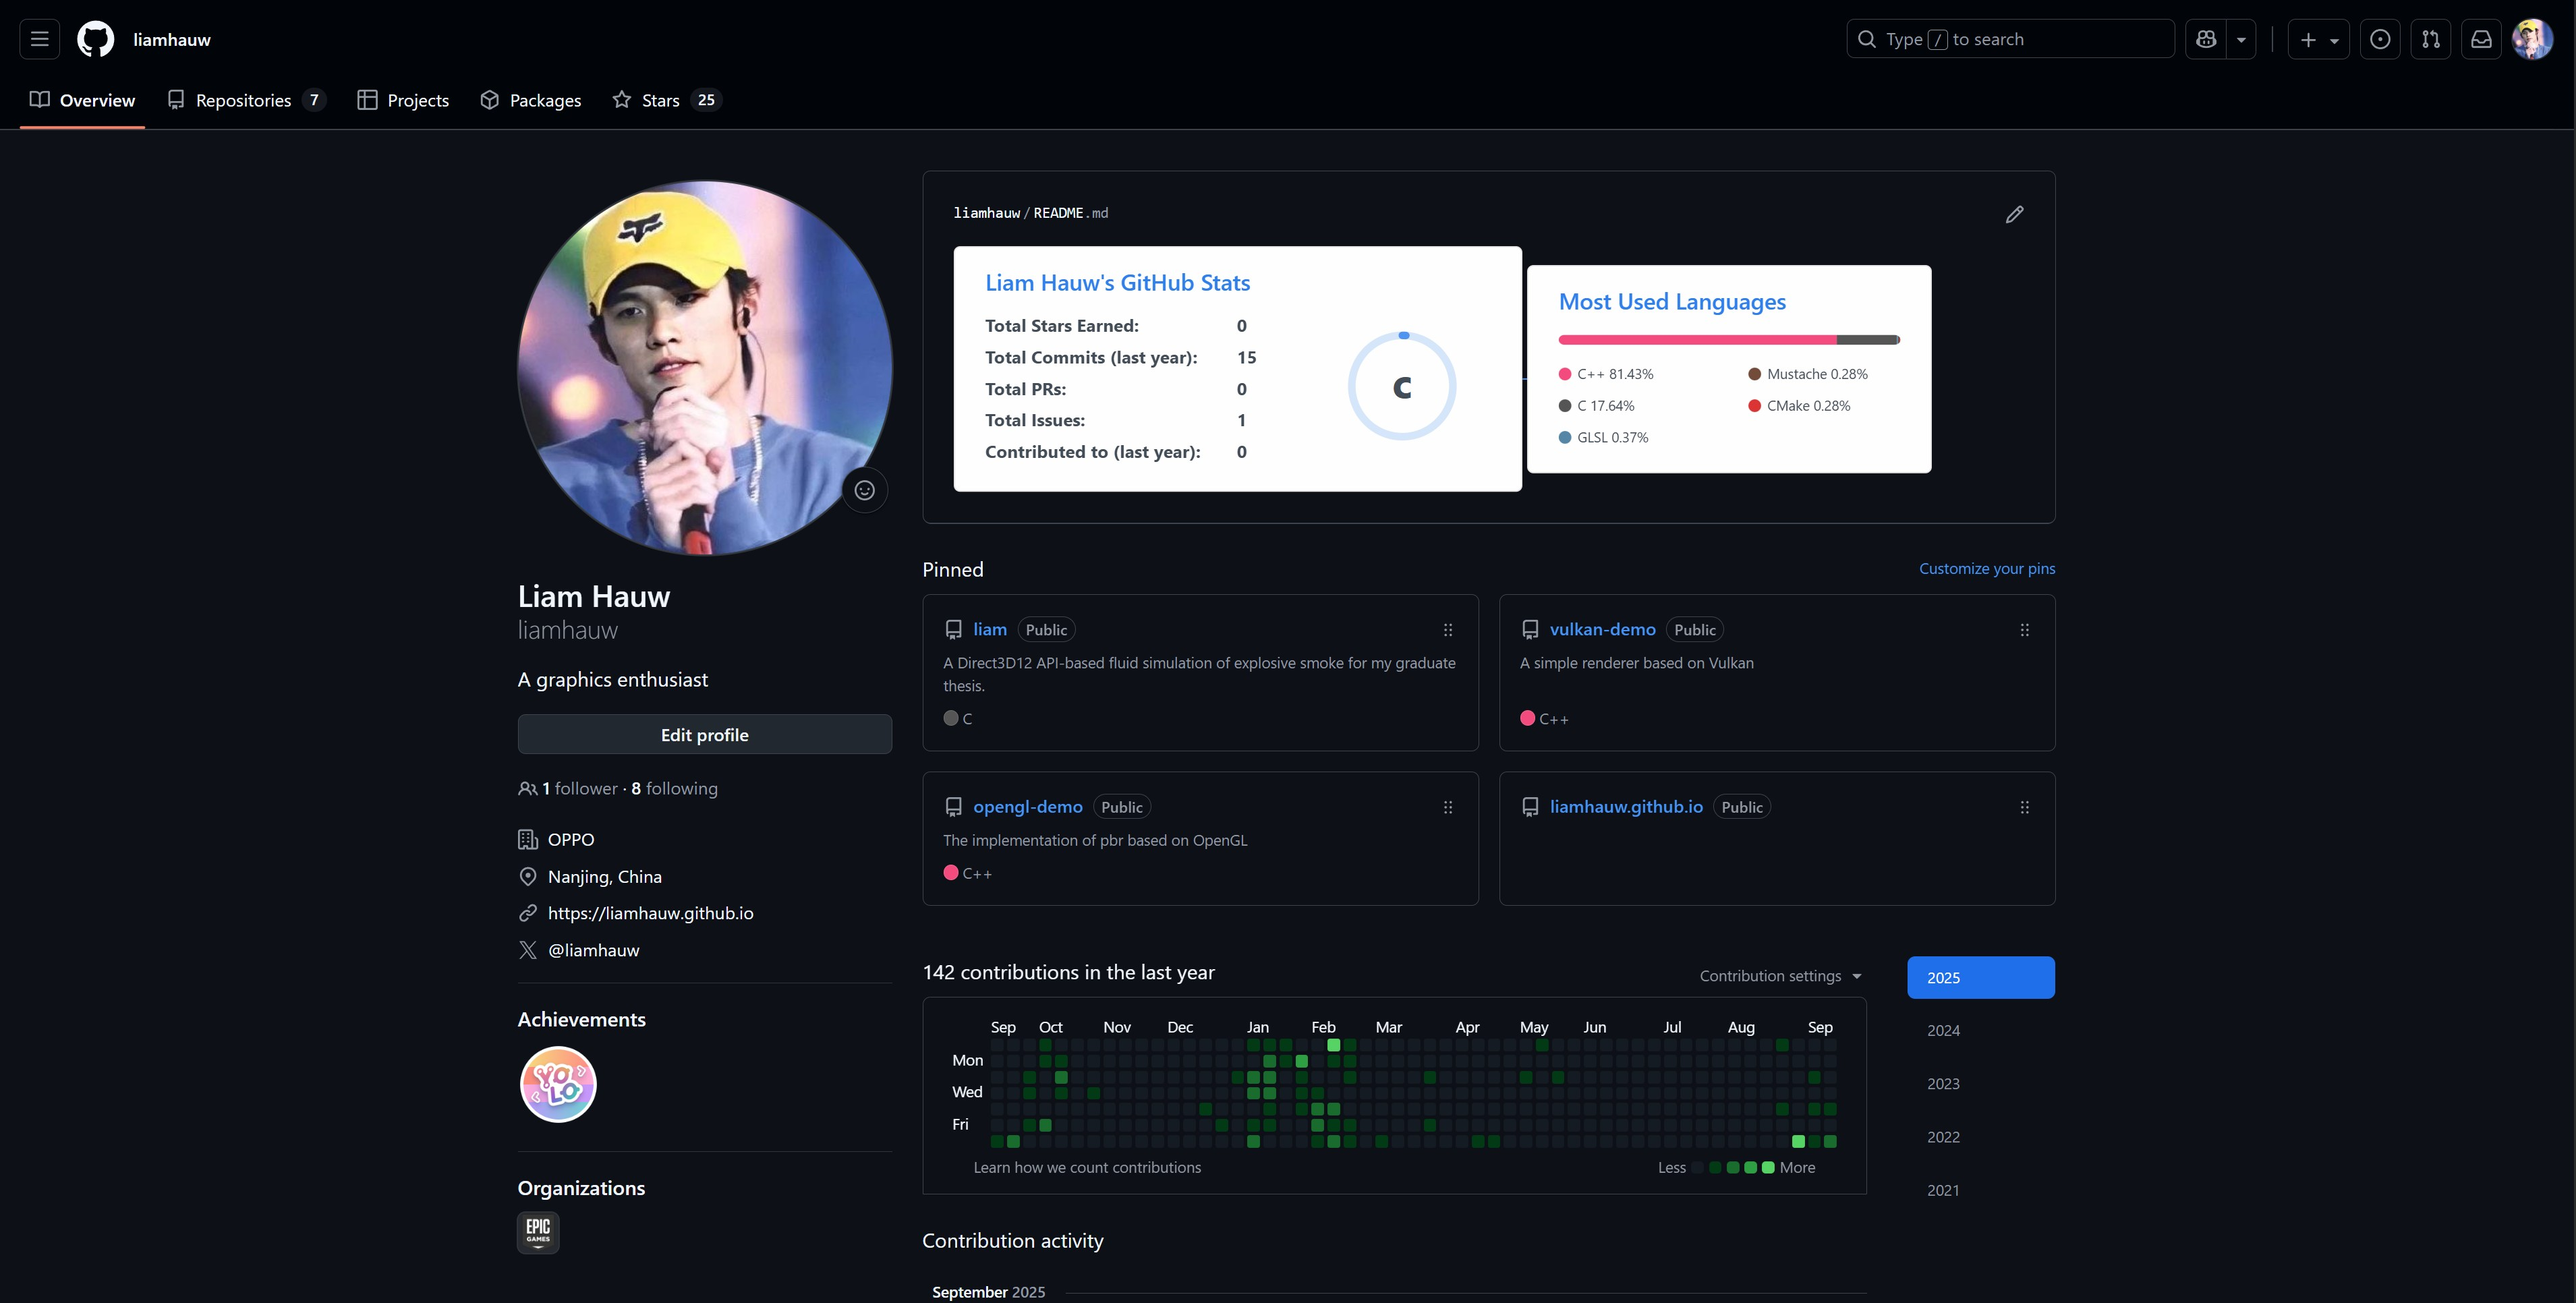
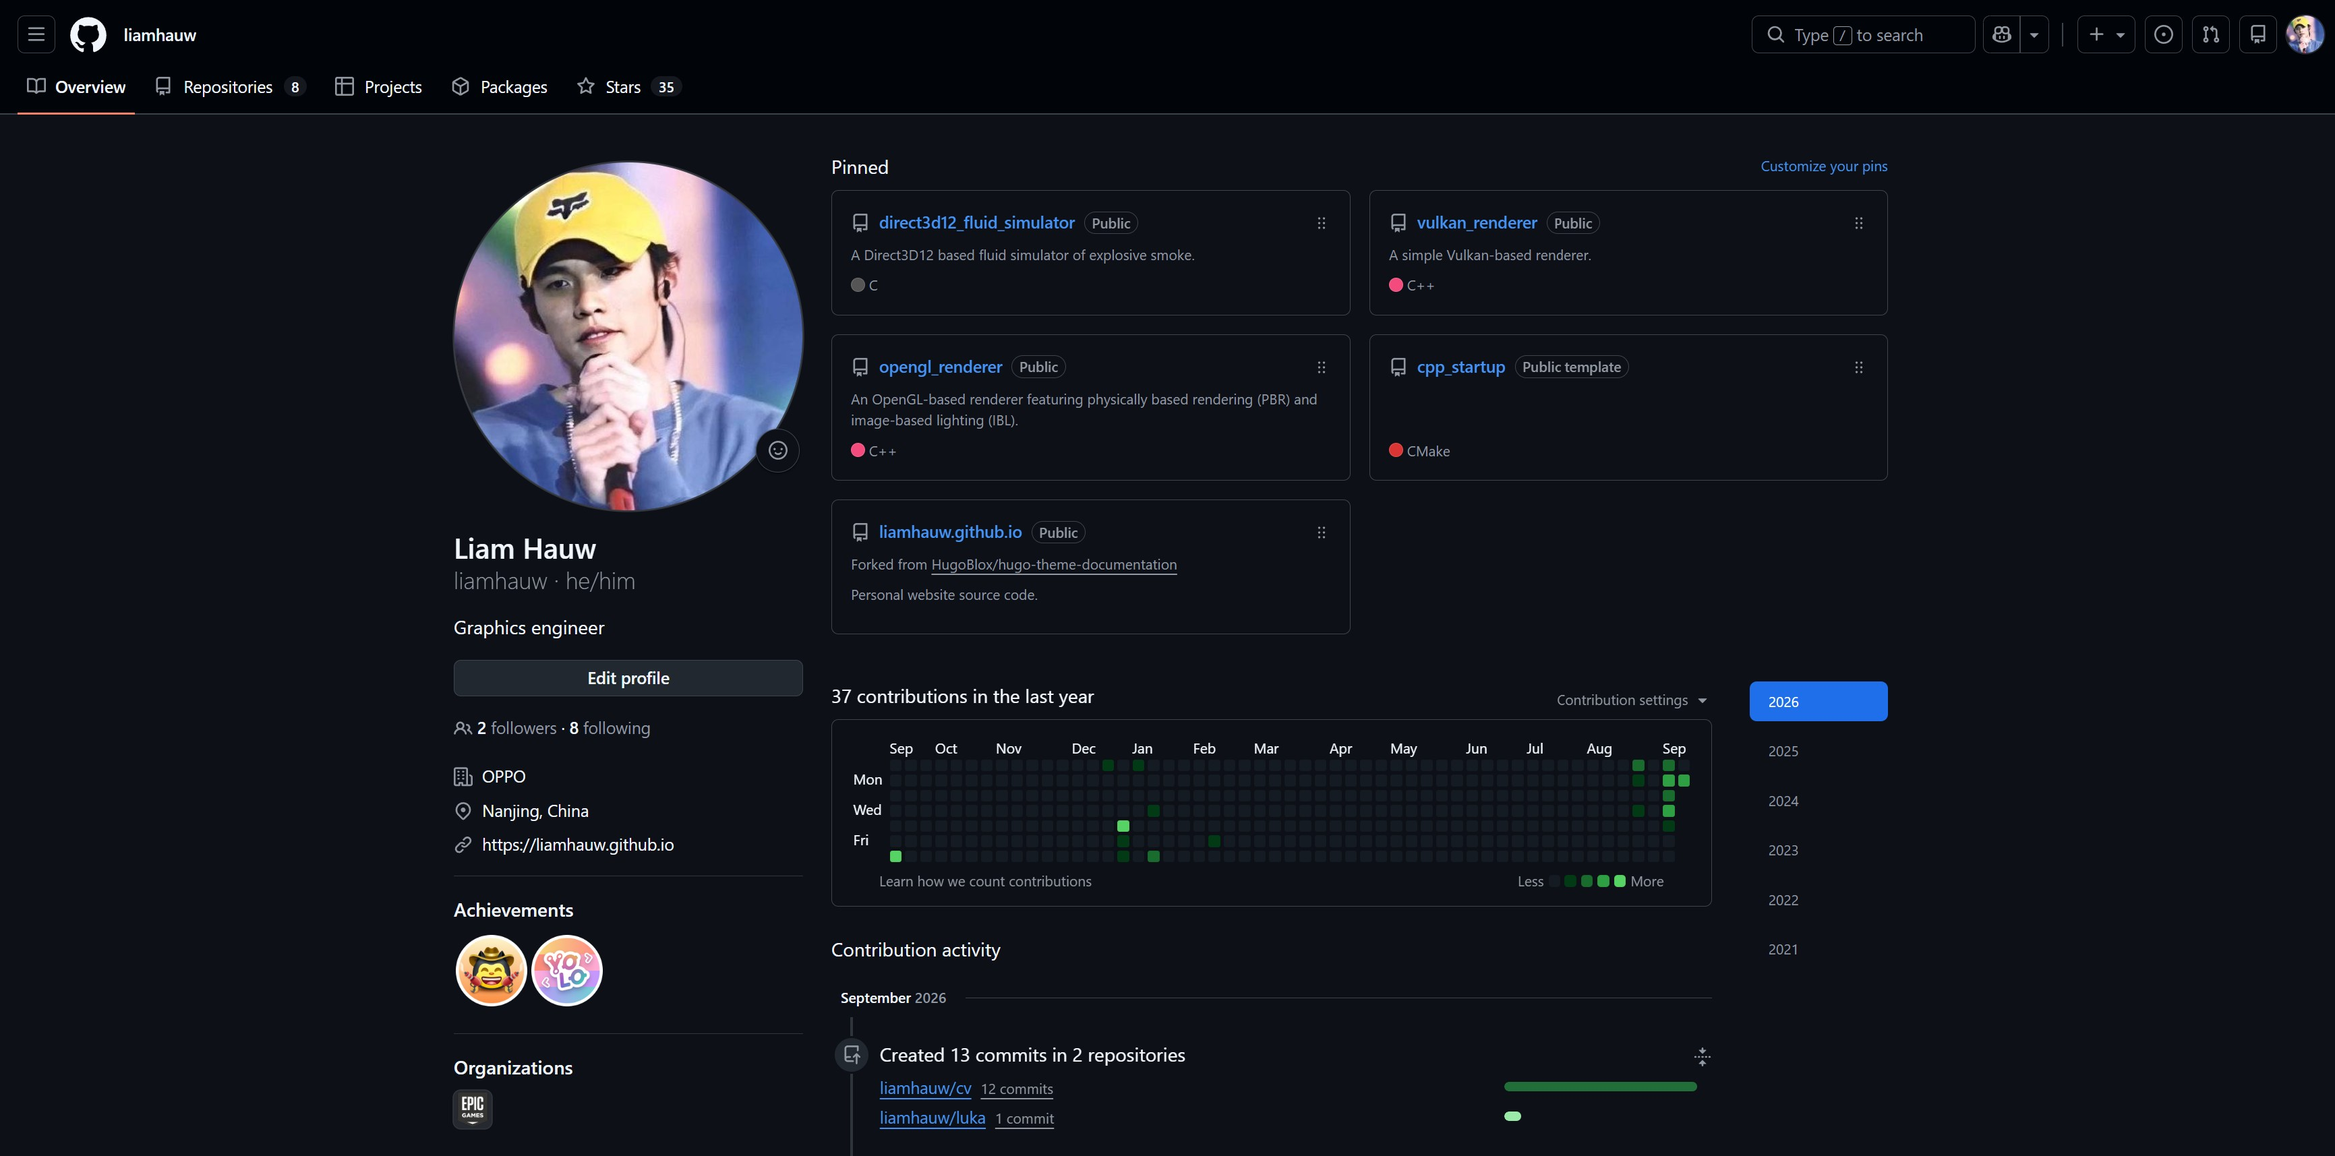
Update docs

diff --git a/content/docs/rendering/real_time_rendering/_index.md b/content/docs/rendering/real_time_rendering/_index.md
@@ -45,15 +45,6 @@ date: 2026-03-10
 - [Nvidia mega geometray samples](https://github.com/nvpro-samples/build_all?tab=readme-ov-file#mega-geometry)
 - [Niagara renderer](https://github.com/zeux/niagara)
 
-## Neural rendering
-### Reference
-- [Nerf: Representing scenes as neural radiance fields for view synthesis](https://dl.acm.org/doi/pdf/10.1145/3503250)
-- [3D Gaussian splatting for real-time radiance field rendering](https://dl.acm.org/doi/pdf/10.1145/3592433)
-- [Nvidia 3DGS sample](https://github.com/nvpro-samples/vk_gaussian_splatting)
-- [An introduction to neural shading](https://dl.acm.org/doi/pdf/10.1145/3721241.3733999)
-- [Nvidia RTX kit](https://developer.nvidia.com/rtx-kit/?sortBy=developer_learning_library%2Fsort%2Ftitle%3Aasc&hitsPerPage=15)
-- [RenderFormer](https://microsoft.github.io/renderformer/)
-
 ## Resource
 - [Mathematics for 3D game programming and computer graphics(3rd)](https://www.amazon.com/Mathematics-Programming-Computer-Graphics-Third/dp/1435458869)
 - [Foundations of game engine development volume 1 mathematics](https://www.amazon.com/Foundations-Game-Engine-Development-Mathematics/dp/0985811749)

diff --git a/content/docs/graphics_systems_and_interfaces/game_engine/_index.md b/content/docs/graphics_systems_and_interfaces/game_engine/_index.md
@@ -1,16 +1,18 @@
 ---
 title: Game engine
-date: 2026-01-23
+date: 2026-09-14
 weight: 5
 ---
 
 ## Unreal engine
 ### Reference
-- [Offical docs](https://dev.epicgames.com/documentation/en-us/unreal-engine/unreal-engine-5-7-documentation)
-- [Italink unreal engine guide](https://italink.github.io/ModernGraphicsEngineGuide/)
+- [Source code](https://github.com/EpicGames/UnrealEngine)
+- [Offical docs](https://dev.epicgames.com/documentation/en-us/unreal-engine/unreal-engine-5-8-documentation)
 - [Nanite a deep dive](https://advances.realtimerendering.com/s2021/Karis_Nanite_SIGGRAPH_Advances_2021_final.pdf)
 
 ## Resource
 - [Game engine architecture](https://www.amazon.com/Engine-Architecture-Third-Jason-Gregory/dp/1138035459)
 - [GAMES104 modern game engine](https://games-cn.org/games104/)
 - [Android games dev center](https://developer.android.com/games)
+- [Italink personal website](https://italink.github.io/ModernGraphicsEngineGuide/)
+- [NothingToSay0031 personal website](https://nothingtosay0031.github.io/)

diff --git a/content/docs/rendering/nerual_rendering/_index.md b/content/docs/rendering/nerual_rendering/_index.md
@@ -1,0 +1,17 @@
+---
+title: Nerual rendering
+date: 2026-09-14
+weight: 3
+---
+
+## DLSS
+### Reference
+- [Nvidia DLSS](https://developer.nvidia.com/rtx/dlss)
+
+## Resource
+- [An introduction to neural shading](https://dl.acm.org/doi/pdf/10.1145/3721241.3733999)
+- [Nvidia RTX kit](https://developer.nvidia.com/rtx-kit/?sortBy=developer_learning_library%2Fsort%2Ftitle%3Aasc&hitsPerPage=15)
+- [RenderFormer](https://microsoft.github.io/renderformer/)
+- [Nerf: Representing scenes as neural radiance fields for view synthesis](https://dl.acm.org/doi/pdf/10.1145/3503250)
+- [3D Gaussian splatting for real-time radiance field rendering](https://dl.acm.org/doi/pdf/10.1145/3592433)
+- [Nvidia 3DGS sample](https://github.com/nvpro-samples/vk_gaussian_splatting)

diff --git a/content/docs/_index.md b/content/docs/_index.md
@@ -27,4 +27,3 @@ This is based on the [ACM computing classification system](https://dl.acm.org/cc
 
 ## Resource
 - [Self-learning guide](https://csdiy.wiki/en/)
-- [NothingToSay0031 personal website](https://nothingtosay0031.github.io/)
